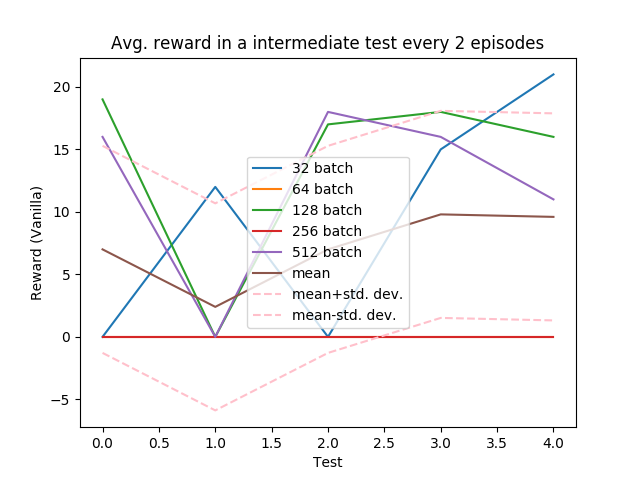
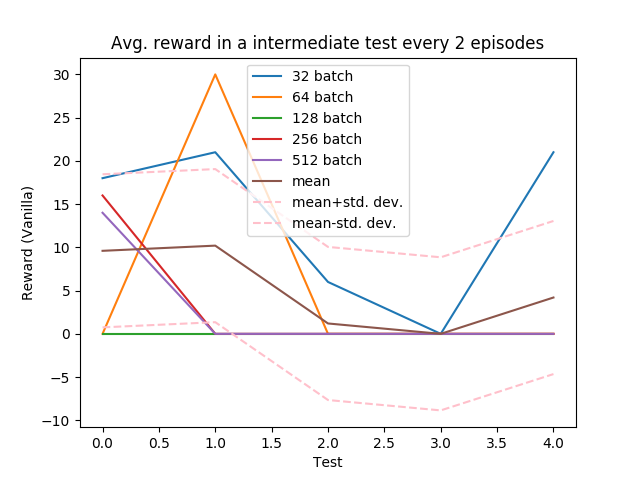
implemented batch sweep over [32,64,128,256,512]

diff --git a/project/hendrik/script.py b/project/hendrik/script.py
@@ -54,20 +54,18 @@ def test_run(agent):
 
 
 ######## CONSTANTS ############################################################
-#def: 50000
+
 MEMORY_SIZE = 8000000
-MEMORY_FILL = 800#0
+MEMORY_FILL = 8000
 memory = []
-#def: 30000
-TRAINING_EPISODES = 10#5#00
+TRAINING_EPISODES = 500
 AUTO_SAVER = 50
 SHOW_PROGRESS = 25
-# def: 2000
 TIMESTEPS = 500
 BATCH_SIZE = [32, 64, 128, 256, 512]
 RUNS = 5
-TEST_PROGRESS = 2
-TESTS = 1
+TEST_PROGRESS = 10
+TESTS = 50
 
 ####### INTIALISATION ##########################################################
 weights_file = "network.h5"
@@ -195,35 +193,6 @@ for run in range(RUNS):
     print("Training time: {:.2f} min".format(time_needed))
 
 
-
-
-    #
-    # fig1 = plt.figure(figsize=(10,5))
-    # plt.plot(list_epsilon[run])
-    # plt.xlabel("Episode")
-    # plt.ylabel("Epsilon")
-    # fig1.savefig('decaying_epsilon.png')
-    #
-    # smoothing_window = 10
-    # # Plot the episode reward over time
-    # fig2 = plt.figure(figsize=(10,5))
-    # rewards_smoothed = pd.Series(list_episode_reward[run]).rolling(smoothing_window, min_periods=smoothing_window).mean()
-    # plt.plot(rewards_smoothed)
-    # plt.xlabel("Episode")
-    # plt.ylabel("Episode Reward (Smoothed)")
-    # plt.title("Episode Reward over Time (Smoothed over window size {})".format(smoothing_window))
-    # fig2.savefig('reward.png')
-    #
-    # moothing_window = 10
-    # # Plot the episode reward over time
-    # fig3 = plt.figure(figsize=(10,5))
-    # rewards_smoothed = pd.Series(list_acc_reward[run]).rolling(smoothing_window, min_periods=smoothing_window).mean()
-    # plt.plot(rewards_smoothed)
-    # plt.xlabel("Episode")
-    # plt.ylabel("Episode Reward (Smoothed)")
-    # plt.title("Accumulated Reward over Time (Smoothed over window size {})".format(smoothing_window))
-    # fig3.savefig('acc_reward.png')
-
 plt.figure()
 for i in range(RUNS):
     plt.plot(list_avg_reward[i], label='{} batch'.format(BATCH_SIZE[i]))
@@ -271,3 +240,36 @@ with open('csv_files/batch_sweep/list_acc_reward.csv', 'w+') as csvfile:
 
 
 #plt.show()
+
+
+
+
+### CODE DUMPSTER ##############################################################
+
+
+    #
+    # fig1 = plt.figure(figsize=(10,5))
+    # plt.plot(list_epsilon[run])
+    # plt.xlabel("Episode")
+    # plt.ylabel("Epsilon")
+    # fig1.savefig('decaying_epsilon.png')
+    #
+    # smoothing_window = 10
+    # # Plot the episode reward over time
+    # fig2 = plt.figure(figsize=(10,5))
+    # rewards_smoothed = pd.Series(list_episode_reward[run]).rolling(smoothing_window, min_periods=smoothing_window).mean()
+    # plt.plot(rewards_smoothed)
+    # plt.xlabel("Episode")
+    # plt.ylabel("Episode Reward (Smoothed)")
+    # plt.title("Episode Reward over Time (Smoothed over window size {})".format(smoothing_window))
+    # fig2.savefig('reward.png')
+    #
+    # moothing_window = 10
+    # # Plot the episode reward over time
+    # fig3 = plt.figure(figsize=(10,5))
+    # rewards_smoothed = pd.Series(list_acc_reward[run]).rolling(smoothing_window, min_periods=smoothing_window).mean()
+    # plt.plot(rewards_smoothed)
+    # plt.xlabel("Episode")
+    # plt.ylabel("Episode Reward (Smoothed)")
+    # plt.title("Accumulated Reward over Time (Smoothed over window size {})".format(smoothing_window))
+    # fig3.savefig('acc_reward.png')
